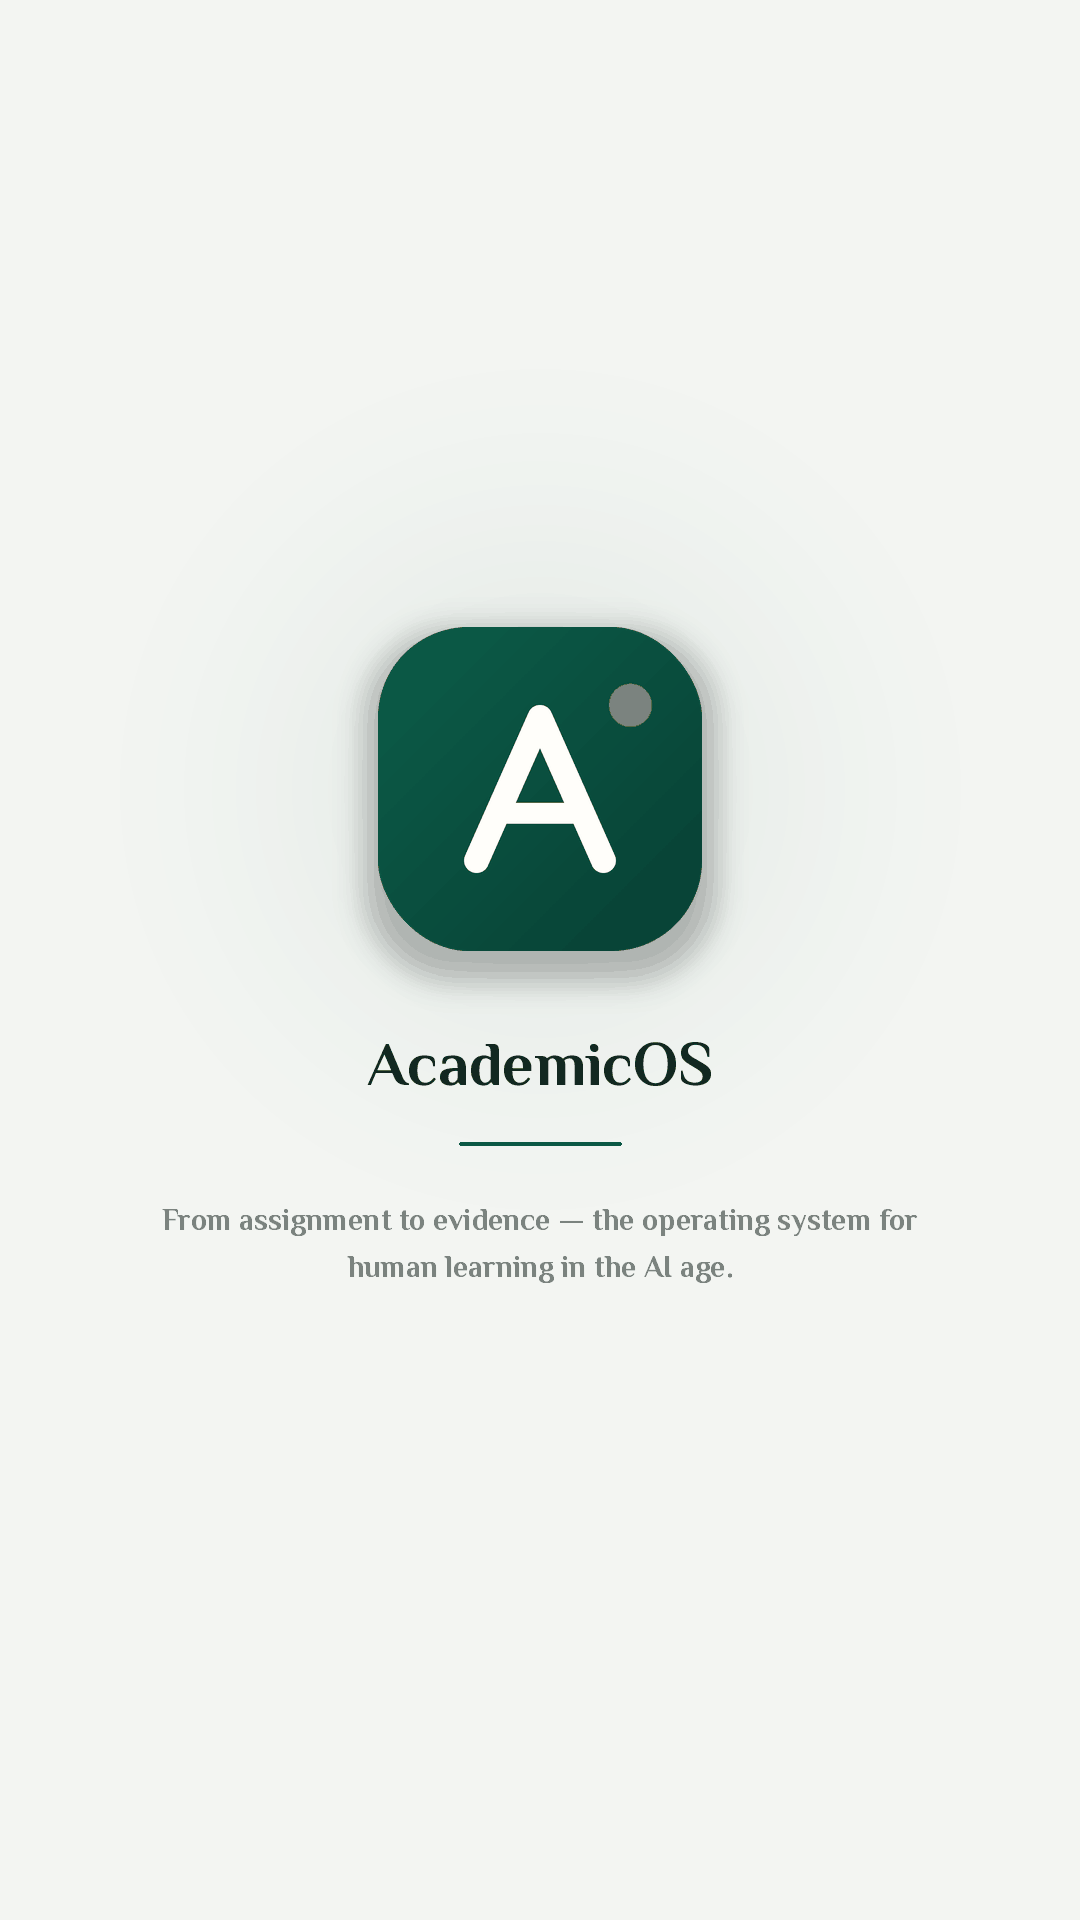
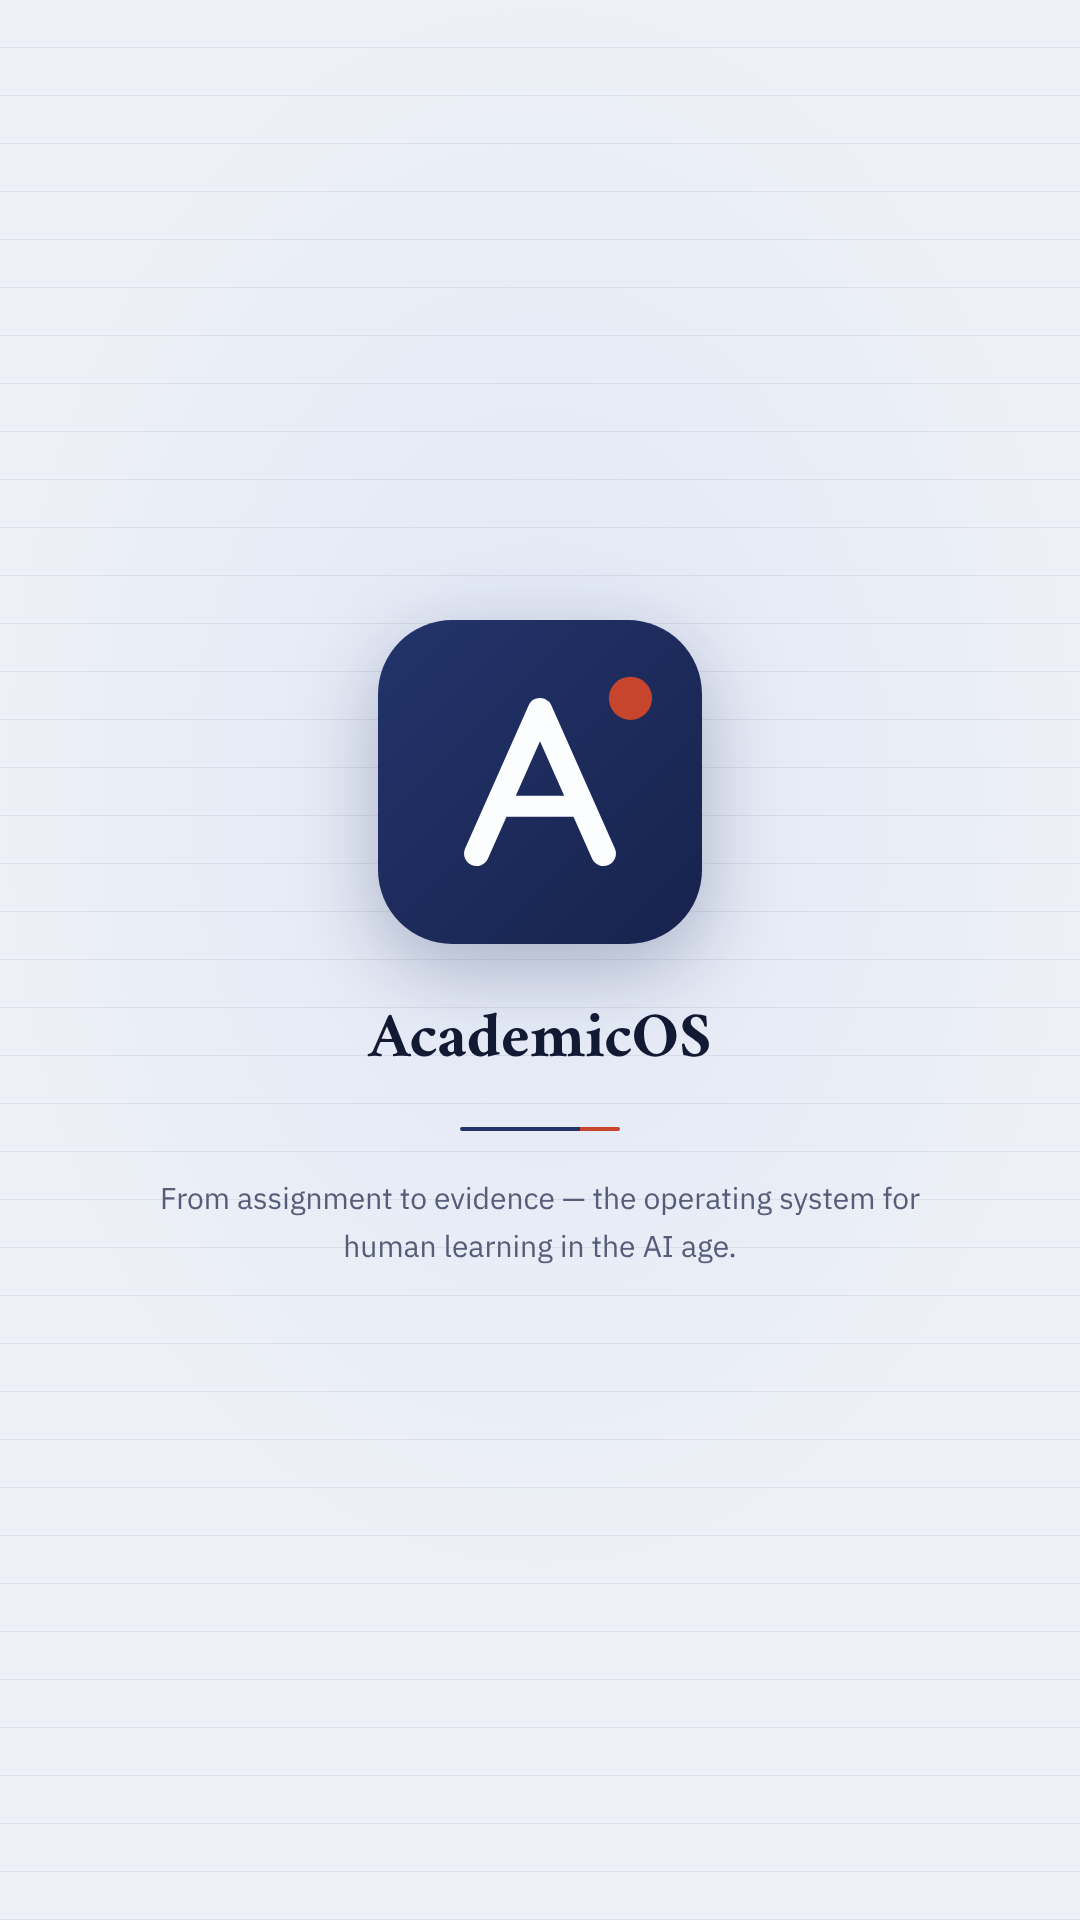
Unify export templates, OG image and cover screenshots with Evidence Ledger identity (#105)
Colors/fonts/shape tokens only; no text, data or export-structure changes.

Claude-Session: https://claude.ai/code/session_01H6TViNM1JBaD8txnpXFeEF

Changed region(s): [[0.1528, 0.3125, 0.8556, 0.6875]]

diff --git a/src/components/project/AutoPresentationStudio.tsx b/src/components/project/AutoPresentationStudio.tsx
@@ -62,30 +62,30 @@ export function AutoPresentationStudio({ project }: { project: ProjectDNA }) {
     const html = `<!doctype html><html lang="${locale}" dir="${meta.dir}"><meta charset="utf-8"><title>${escapeHtml(project.title)} · ${escapeHtml(t("pres.title"))}</title><style>
 @page{size:1600px 900px;margin:0}
 *{box-sizing:border-box}
-body{margin:0;background:#0b1310;color:#f3f7f4;text-align:start;
+body{margin:0;background:#0e1530;color:#f3f5fb;text-align:start;
   font-family:"Noto Sans","Noto Sans Arabic","Noto Sans SC","Noto Sans Devanagari","Noto Nastaliq Urdu",-apple-system,"Segoe UI",Helvetica,Arial,sans-serif;
   -webkit-font-smoothing:antialiased;line-height:1.5}
 .slide{position:relative;width:100vw;min-height:100vh;padding:7vh 7vw 9vh;page-break-after:always;
   display:flex;flex-direction:column;justify-content:space-between;
-  background:radial-gradient(120vw 80vh at 85% -20%,rgba(12,93,73,.55),transparent 60%),linear-gradient(135deg,#0b1310,#111c17)}
-.slide::after{content:"";position:absolute;inset-block-start:0;inset-inline:0;height:6px;background:linear-gradient(90deg,#79c5a7,#d3a56d)}
+  background:radial-gradient(120vw 80vh at 85% -20%,rgba(35,52,107,.7),transparent 60%),linear-gradient(135deg,#0e1530,#17234d)}
+.slide::after{content:"";position:absolute;inset-block-start:0;inset-inline:0;height:6px;background:linear-gradient(90deg,#a9baf0 0 70%,#f08462 70% 100%)}
 header{display:flex;align-items:center;justify-content:space-between;gap:24px;
-  padding-bottom:20px;border-bottom:1px solid rgba(243,247,244,.14)}
-.eyebrow{color:#d3a56d;font-weight:700;letter-spacing:.13em;text-transform:uppercase;font-size:.85rem}
-.page{color:rgba(243,247,244,.5);font-size:.85rem;font-variant-numeric:tabular-nums}
+  padding-bottom:20px;border-bottom:1px solid rgba(243,245,251,.14)}
+.eyebrow{color:#f08462;font-weight:700;letter-spacing:.13em;text-transform:uppercase;font-size:.85rem}
+.page{color:rgba(243,245,251,.5);font-size:.85rem;font-variant-numeric:tabular-nums}
 .body{flex:1;display:flex;flex-direction:column;justify-content:center;padding-block:4vh}
-h1{font-size:clamp(2.2rem,4.4vw,3.6rem);line-height:1.1;letter-spacing:-.03em;margin:0 0 .6rem;text-wrap:balance}
-h2{color:#79c5a7;font-size:clamp(1rem,1.5vw,1.35rem);font-weight:500;margin:0 0 2.2rem}
+h1{font-family:"Amiri Display",Amiri,"Noto Sans","Noto Sans Arabic","Noto Sans SC","Noto Sans Devanagari","Noto Nastaliq Urdu",-apple-system,"Segoe UI",Helvetica,Arial,sans-serif;font-size:clamp(2.2rem,4.4vw,3.6rem);line-height:1.1;letter-spacing:-.03em;margin:0 0 .6rem;text-wrap:balance}
+h2{color:#a9baf0;font-size:clamp(1rem,1.5vw,1.35rem);font-weight:500;margin:0 0 2.2rem}
 ul{margin:0;padding:0;list-style:none;display:grid;gap:1rem}
-li{position:relative;padding-inline-start:1.9rem;font-size:clamp(1.05rem,1.6vw,1.5rem);line-height:1.6;color:rgba(243,247,244,.92)}
-li::before{content:"";position:absolute;inset-inline-start:0;top:.62em;width:.62rem;height:.62rem;border-radius:50%;background:#79c5a7}
+li{position:relative;padding-inline-start:1.9rem;font-size:clamp(1.05rem,1.6vw,1.5rem);line-height:1.6;color:rgba(243,245,251,.92)}
+li::before{content:"";position:absolute;inset-inline-start:0;top:.62em;width:.62rem;height:.62rem;border-radius:2px;background:#f08462}
 footer{display:flex;align-items:center;justify-content:space-between;gap:24px;
-  padding-top:18px;border-top:1px solid rgba(243,247,244,.14);color:rgba(243,247,244,.55);font-size:.85rem}
-.notes{margin-top:2.4rem;padding:1.1rem 1.3rem;border:1px solid rgba(243,247,244,.16);border-radius:18px;
-  color:rgba(243,247,244,.78);font-size:.95rem}
-.notes strong{display:block;margin-bottom:.4rem;color:#d3a56d;letter-spacing:.06em;text-transform:uppercase;font-size:.75rem}
+  padding-top:18px;border-top:1px solid rgba(243,245,251,.14);color:rgba(243,245,251,.55);font-size:.85rem}
+.notes{margin-top:2.4rem;padding:1.1rem 1.3rem;border:1px solid rgba(243,245,251,.16);border-radius:10px;
+  color:rgba(243,245,251,.78);font-size:.95rem}
+.notes strong{display:block;margin-bottom:.4rem;color:#f08462;letter-spacing:.06em;text-transform:uppercase;font-size:.75rem}
 .notes p{margin:0}
-@media print{body{background:#0b1310}.notes{display:none}.slide{height:100vh;min-height:0}}
+@media print{body{background:#0e1530}.notes{display:none}.slide{height:100vh;min-height:0}}
 </style><body>${sections}</body></html>`;
     const url = URL.createObjectURL(new Blob([html], { type: "text/html;charset=utf-8" }));
     const a = document.createElement("a");

diff --git a/src/components/project/DynamicDataVisualizer.tsx b/src/components/project/DynamicDataVisualizer.tsx
@@ -87,20 +87,20 @@ export function DynamicDataVisualizer({ project }: { project: ProjectDNA }) {
         const clamped = Math.max(0, Math.min(100, item.value));
         const fillWidth = Math.round((clamped / 100) * inner);
         const fillX = rtl ? pad + inner - fillWidth : pad;
-        const tone = clamped >= 80 ? "#0c5d49" : clamped >= 40 ? "#a8763c" : "#a63c3c";
-        return `<text x="${startX}" y="${top}" text-anchor="${startAnchor}" font-size="20" font-weight="600" fill="#14201b" direction="${meta.dir}">${escapeXml(item.label.slice(0, 58))}</text>` +
+        const tone = clamped >= 80 ? "#2f6b47" : clamped >= 40 ? "#8f5a14" : "#a3223f";
+        return `<text x="${startX}" y="${top}" text-anchor="${startAnchor}" font-size="20" font-weight="600" fill="#131a33" direction="${meta.dir}">${escapeXml(item.label.slice(0, 58))}</text>` +
           `<text x="${endX}" y="${top}" text-anchor="${endAnchor}" font-size="20" font-weight="700" fill="${tone}">${clamped}%</text>` +
-          `<rect x="${pad}" y="${top + 14}" width="${inner}" height="18" rx="9" fill="#e6ebe7"/>` +
-          `<rect x="${fillX}" y="${top + 14}" width="${fillWidth}" height="18" rx="9" fill="${tone}"/>` +
-          `<text x="${startX}" y="${top + 52}" text-anchor="${startAnchor}" font-size="15" fill="#66716b" direction="${meta.dir}">${escapeXml(item.status)}</text>`;
+          `<rect x="${pad}" y="${top + 14}" width="${inner}" height="18" rx="5" fill="#e1e7f6"/>` +
+          `<rect x="${fillX}" y="${top + 14}" width="${fillWidth}" height="18" rx="5" fill="${tone}"/>` +
+          `<text x="${startX}" y="${top + 52}" text-anchor="${startAnchor}" font-size="15" fill="#565d78" direction="${meta.dir}">${escapeXml(item.status)}</text>`;
       })
       .join("");
     const svg = `<svg xmlns="http://www.w3.org/2000/svg" width="${width}" height="${height}" viewBox="0 0 ${width} ${height}" font-family="${escapeXml(font)}">` +
-      `<rect width="100%" height="100%" fill="#ffffff"/>` +
-      `<rect x="0" y="0" width="100%" height="6" fill="#0c5d49"/>` +
-      `<text x="${startX}" y="66" text-anchor="${startAnchor}" font-size="30" font-weight="700" fill="#14201b" direction="${meta.dir}">${escapeXml(project.title)}</text>` +
-      `<text x="${startX}" y="96" text-anchor="${startAnchor}" font-size="15" fill="#66716b" direction="${meta.dir}">${escapeXml(t("visual.svgNote"))}</text>` +
-      `<line x1="${pad}" y1="112" x2="${width - pad}" y2="112" stroke="#d9dfda" stroke-width="1"/>` +
+      `<rect width="100%" height="100%" fill="#fcfdff"/>` +
+      `<rect x="0" y="0" width="100%" height="6" fill="#23346b"/>` +
+      `<text x="${startX}" y="66" text-anchor="${startAnchor}" font-size="30" font-weight="700" fill="#131a33" direction="${meta.dir}">${escapeXml(project.title)}</text>` +
+      `<text x="${startX}" y="96" text-anchor="${startAnchor}" font-size="15" fill="#565d78" direction="${meta.dir}">${escapeXml(t("visual.svgNote"))}</text>` +
+      `<line x1="${pad}" y1="112" x2="${width - pad}" y2="112" stroke="#d3dae8" stroke-width="1"/>` +
       `${body}</svg>`;
     const url = URL.createObjectURL(new Blob([svg], { type: "image/svg+xml;charset=utf-8" }));
     const anchor = document.createElement("a");
